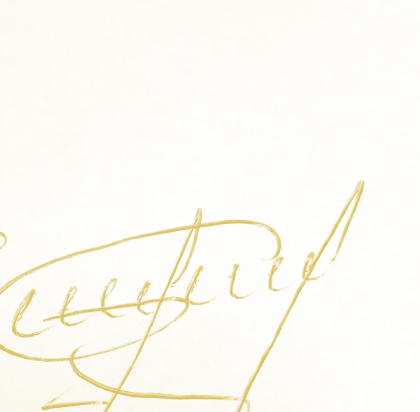
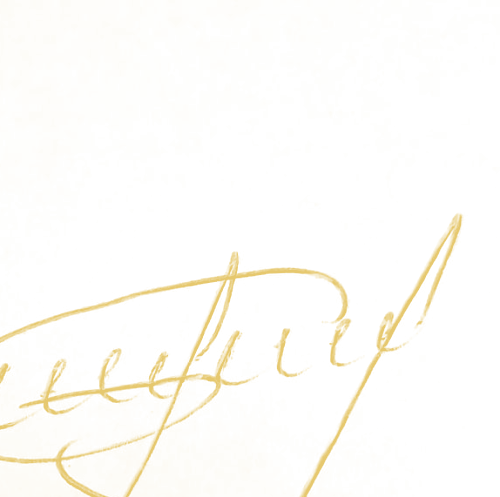
PDF: recentrage signature sur la ligne (recrop + position ajustée)

Changed region(s): [[0.0, 0.4078, 0.9286, 1.0], [0.5262, 0.6408, 0.619, 0.7573], [0.0, 0.5534, 0.031, 0.6117]]

diff --git a/server/services/pdf.js b/server/services/pdf.js
@@ -139,8 +139,8 @@ function generateCertificate(user, certificate) {
     const sigRaw   = path.join(__dirname, '..', 'assets', 'signature.jpg');
     const sigFile  = fs.existsSync(sigClean) ? sigClean : fs.existsSync(sigRaw) ? sigRaw : null;
     if (sigFile) {
-      // Centre l'image au-dessus de la ligne de signature
-      doc.image(sigFile, sigZoneX + 10, footerY - 45, { width: 180, height: 45, fit: [180, 45] });
+      // Image pleine largeur de la zone signature, bien centrée sur la ligne
+      doc.image(sigFile, sigZoneX - 10, footerY - 52, { width: 220, height: 52 });
     }
 
     // Ligne signature (or)